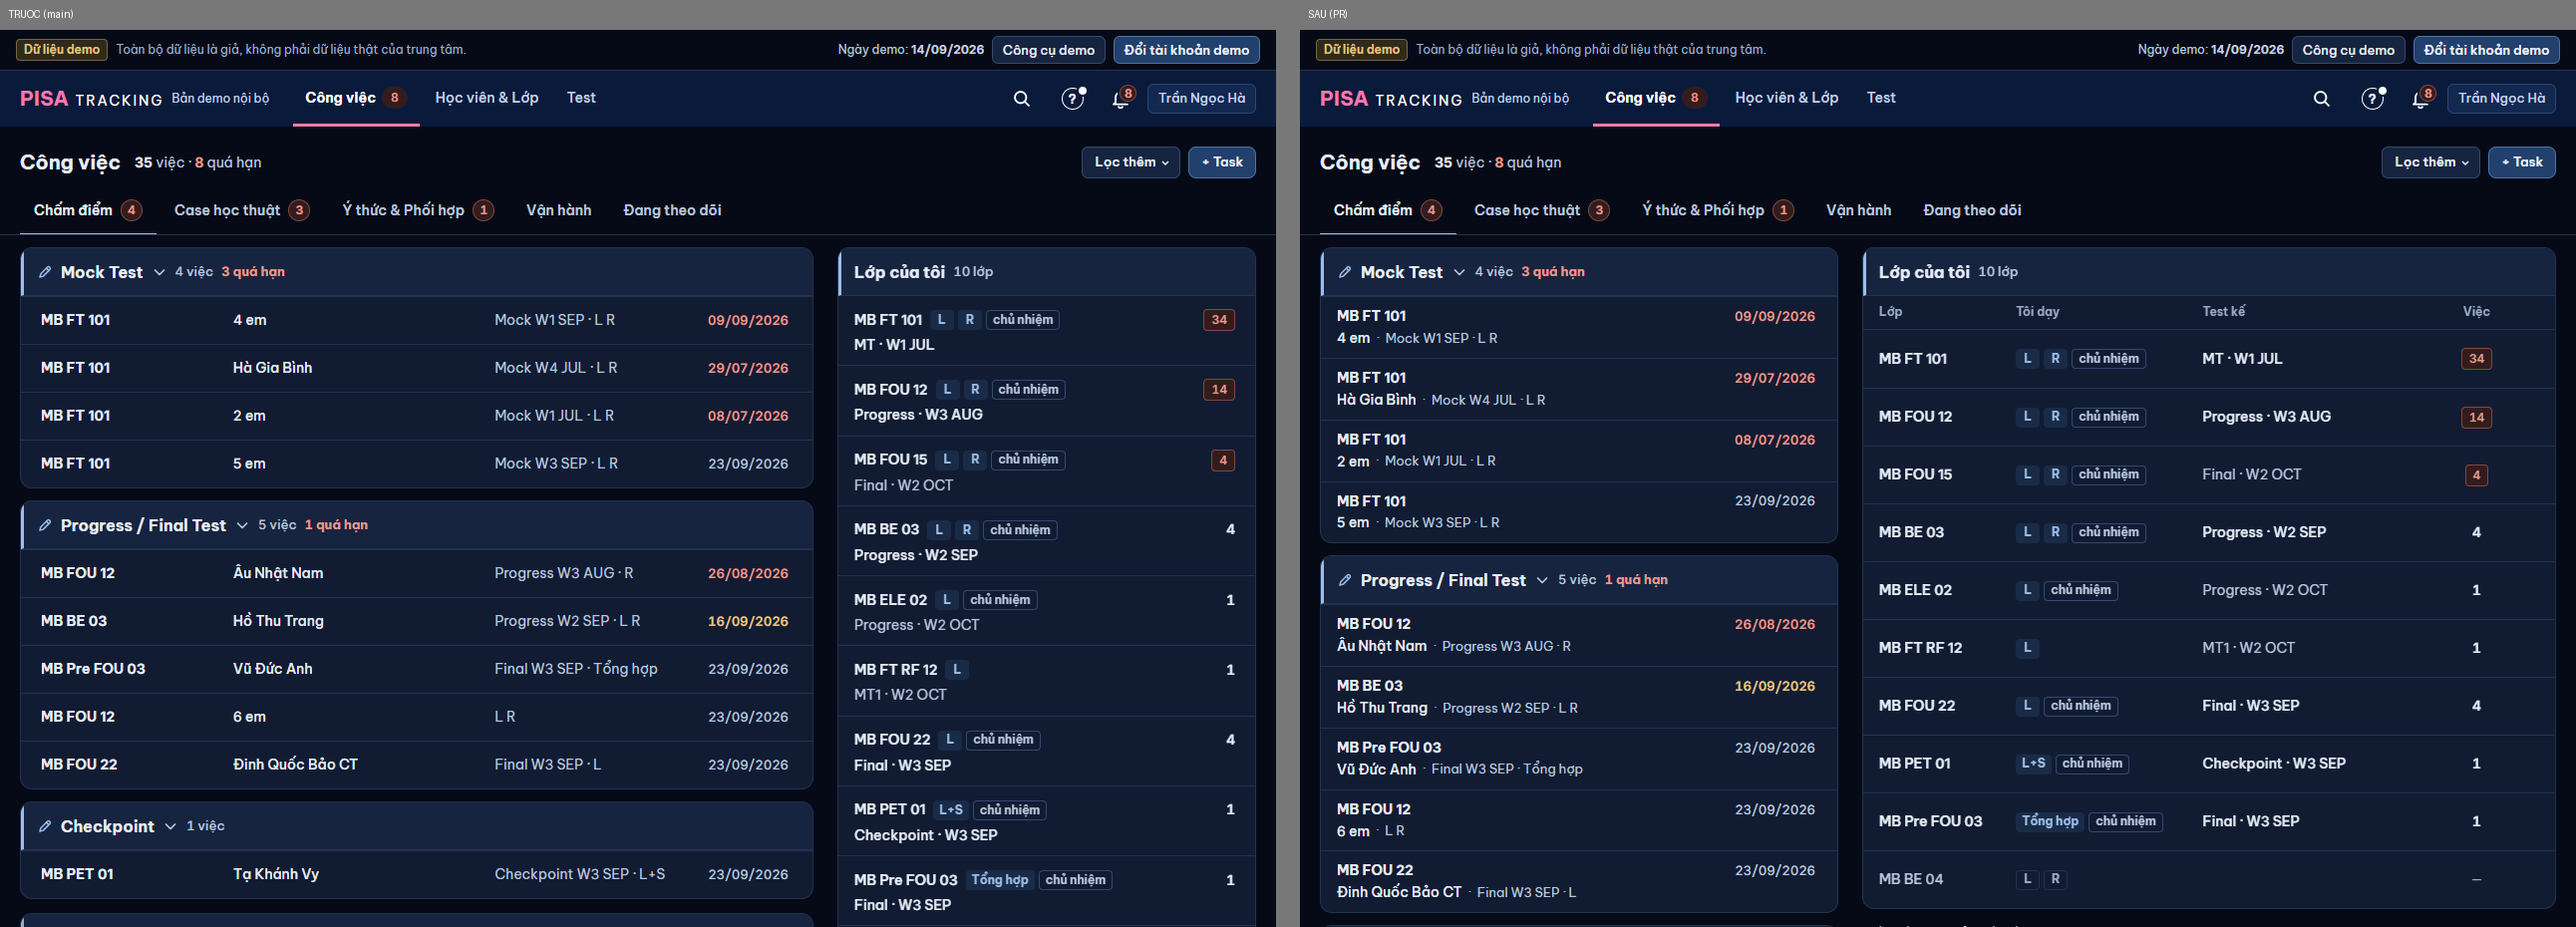
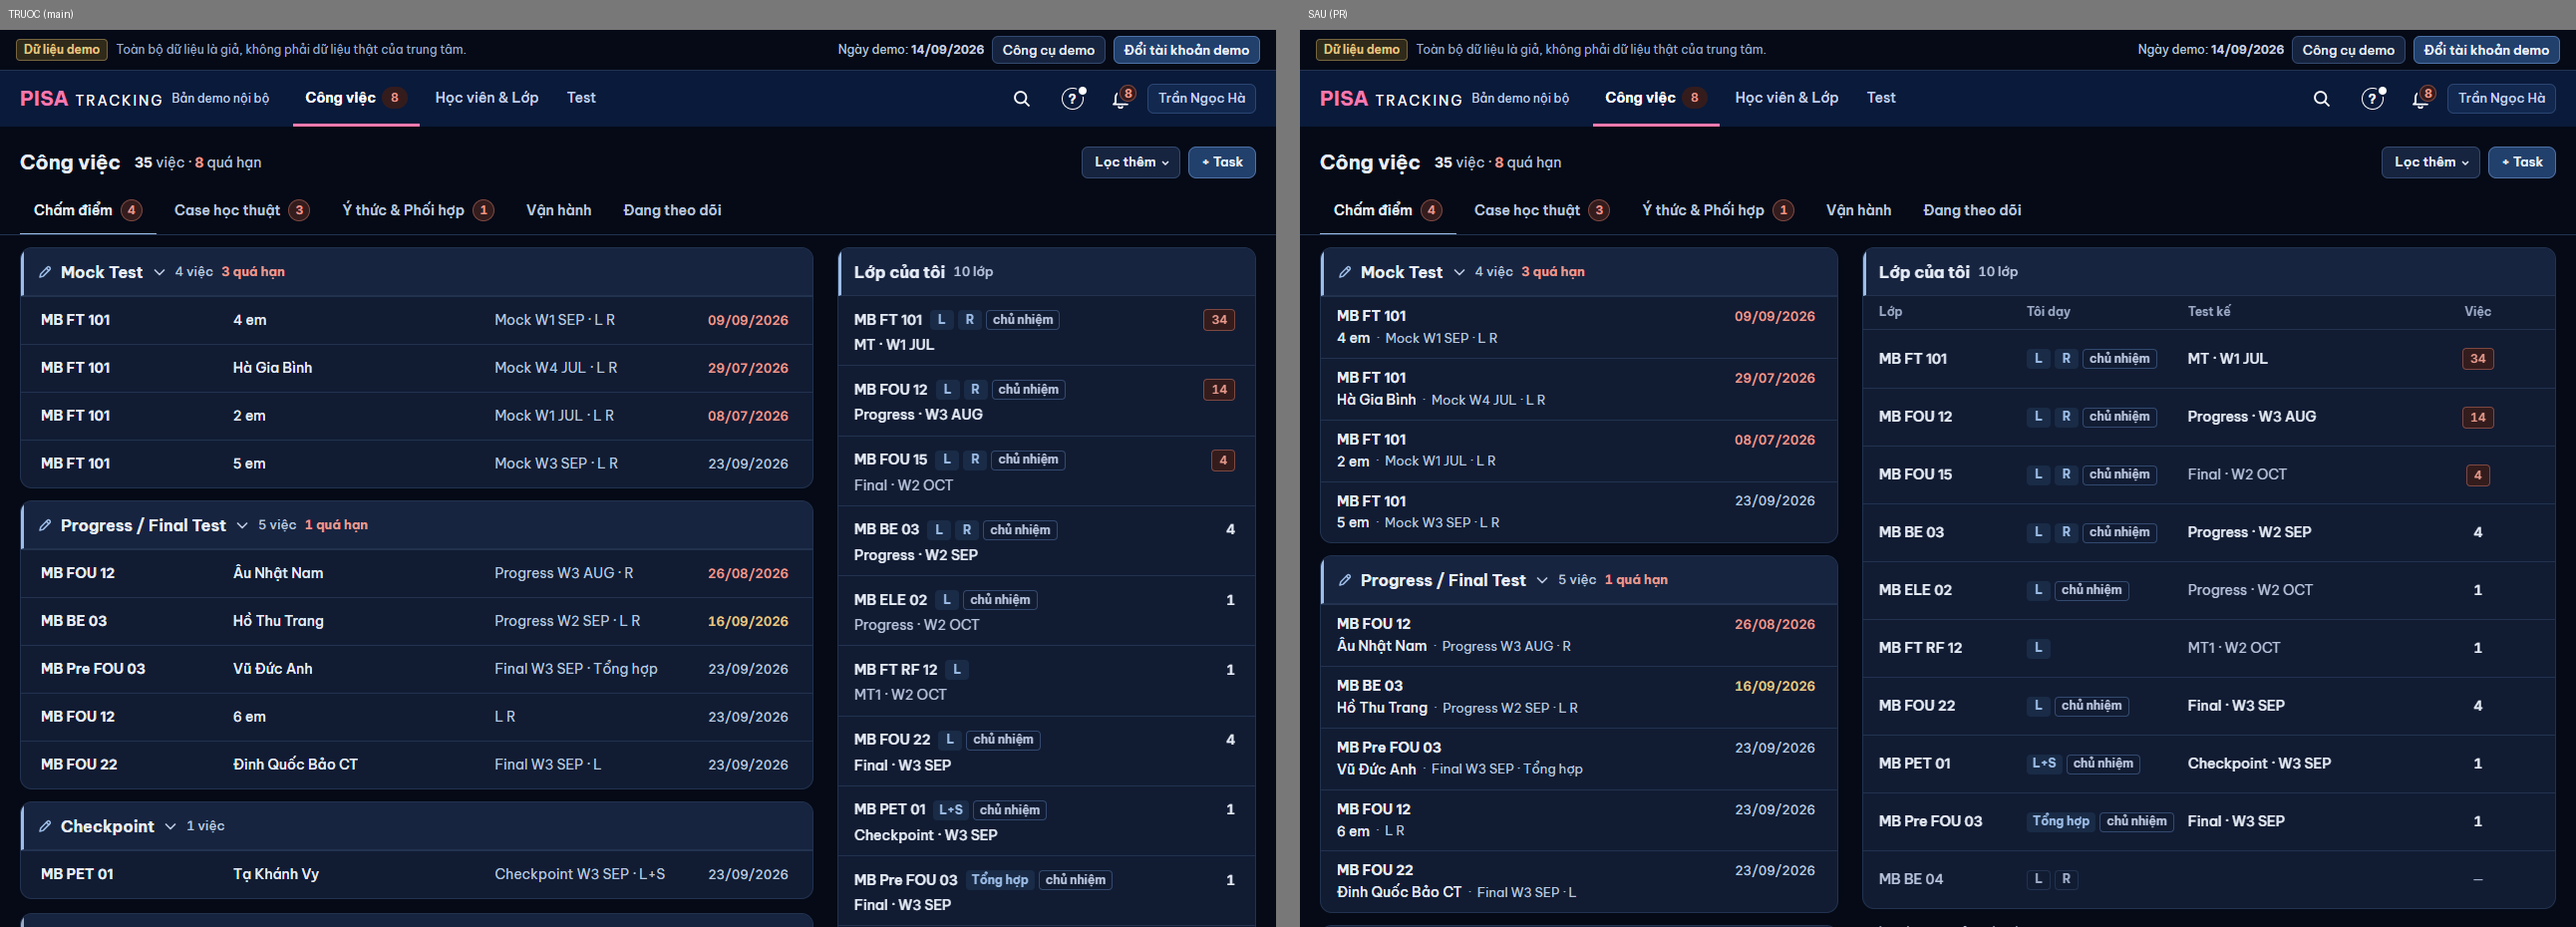
Hai cột cố định: danh sách không cắt chữ, dải tab Thêm ▾, Lớp của tôi chia lại, Phương án tách mẩu, khop-khac + ảnh panel

diff --git a/web/src/ui/HangTab.tsx b/web/src/ui/HangTab.tsx
@@ -6,7 +6,7 @@
  * Trên 375px hàng tab cuộn ngang BÊN TRONG chính nó (`overflow-x-auto`) — không đẩy cả trang cuộn ngang.
  * PR-KHUNG G5: dưới 640px mép phải mờ + đệm pr-8 (cùng mẫu bộ lọc Học viên & Lớp) — biết là còn tab để vuốt.
  */
-import { useEffect, useRef, useState, type KeyboardEvent, type ReactNode } from 'react';
+import { useEffect, useLayoutEffect, useRef, useState, type KeyboardEvent, type ReactNode } from 'react';
 import { BadgeMo, BadgeTabSo, CHIP_TRON } from './Nhan.tsx';
 import type { BadgeTab } from '@shared/domain/index.ts';
 import { t } from '@shared/i18n/index.ts';
@@ -34,14 +34,44 @@ export function phimHangTab(e: KeyboardEvent<HTMLElement>) {
 const matMep = (m: { t: boolean; p: boolean }) =>
   `linear-gradient(to right, ${m.t ? 'transparent 0, #000 2rem' : '#000 0'}, ${m.p ? '#000 calc(100% - 2rem), transparent 100%' : '#000 100%'})`;
 
-export function HangTab<K extends string>({ tabs, value, onChange, ariaLabel, panelId, className = '' }: {
+export function HangTab<K extends string>({ tabs, value, onChange, ariaLabel, panelId, className = '', thuGon = false }: {
   /** TAB-A11Y: id của vùng nội dung (`role="tabpanel"`) mà hàng tab điều khiển → `aria-controls`. Không truyền = trang chưa có vùng riêng. */
   panelId?: string;
   tabs: readonly HangTabMuc<K>[]; value: K; onChange: (k: K) => void; ariaLabel: string;
   /** Lề âm hết bề ngang khối cha (tab hạng mục Công việc, mockup `.tabs` margin 0 -24px); tab con trong khối / panel không truyền (`.tabs.trong`). */
   className?: string;
+  /** HAI-BEN (chủ SP 25/11): hàng hẹp (Công việc khi panel mở) — tab không vừa dồn vào "Thêm ▾" (cuối hàng), KHÔNG cắt chữ giữa chừng, KHÔNG cuộn. */
+  thuGon?: boolean;
 }) {
   const hang = useRef<HTMLDivElement>(null);
+  const [an, setAn] = useState<ReadonlySet<string>>(new Set());
+  const [moThem, setMoThem] = useState(false);
+  /* Menu "Thêm": Esc hoặc bấm ra ngoài thì đóng (bàn phím + chuột cùng có lối ra). */
+  useEffect(() => {
+    if (!moThem) return undefined;
+    const dong = (e: Event) => { if (e instanceof KeyboardEvent ? e.key === 'Escape' : !hang.current?.contains(e.target as Node)) setMoThem(false); };
+    document.addEventListener('keydown', dong);
+    document.addEventListener('pointerdown', dong);
+    return () => { document.removeEventListener('keydown', dong); document.removeEventListener('pointerdown', dong); };
+  }, [moThem]);
+  const khoaTab = tabs.map((x) => `${x.key}${x.so ?? ''}${x.badge?.so ?? ''}`).join('|');
+  useLayoutEffect(() => {
+    const h = hang.current;
+    if (!thuGon || !h) { setAn((a) => (a.size ? new Set() : a)); return undefined; }
+    const tinh = () => {
+      const nut = Array.from(h.querySelectorAll<HTMLElement>('[role="tab"]'));
+      const goc = h.getBoundingClientRect().left;
+      const rong = h.clientWidth;
+      const het = nut.length ? nut[nut.length - 1].getBoundingClientRect().right - goc : 0;
+      const gioiHan = het <= rong ? rong : rong - 92;   // 92 = nút "Thêm ▾"
+      const ra = new Set(nut.filter((n) => n.getBoundingClientRect().right - goc > gioiHan).map((n) => n.dataset.tab!));
+      setAn((a) => (a.size === ra.size && [...ra].every((k) => a.has(k)) ? a : ra));
+    };
+    tinh();
+    const ro = new ResizeObserver(tinh);
+    ro.observe(h);
+    return () => ro.disconnect();
+  }, [thuGon, khoaTab]);   // eslint-disable-line react-hooks/exhaustive-deps -- tinh chỉ đọc ref
   /* PTA rà #1690: hàng tab tràn (375) mờ MÉP còn tab — trái khi đã cuộn qua tab đầu, phải khi còn tab sau — để không tưởng mất tab. Đệm phải 32 px
      (chỗ cho vùng mờ phải) chỉ khi còn tab bên phải: cuộn tới cuối thì tab đầu còn ló dưới vùng mờ trái. */
   const [mep, setMep] = useState({ t: false, p: false });
@@ -75,14 +105,14 @@ export function HangTab<K extends string>({ tabs, value, onChange, ariaLabel, pa
   return (
     /* `relative`: chữ `sr-only` (absolute) của badge bám vào hàng tab, không kéo <main> trượt ngang ở 375 (RA-GD-0711). */
     <div ref={hang} role="tablist" aria-label={ariaLabel} onKeyDown={phimHangTab} onScroll={doMep}
-      className={`relative flex gap-1 overflow-x-auto overflow-y-hidden border-b max-sm:[scrollbar-width:none] ${mep.p ? 'max-sm:pr-8' : ''} ${className}`}
+      className={`relative flex gap-1 border-b max-sm:[scrollbar-width:none] ${thuGon ? 'overflow-x-clip overflow-y-visible' : 'overflow-x-auto overflow-y-hidden'} ${mep.p ? 'max-sm:pr-8' : ''} ${className}`}
       style={{ borderColor: 'var(--line)', ...(mep.t || mep.p ? { maskImage: matMep(mep), WebkitMaskImage: matMep(mep) } : {}) }}>
       {tabs.map((t, i) => {
         const active = t.key === value;
         return (
           /* GD-4c (mockup v21 H1 `.tab`): MỘT dáng — 14 / 600 mọi trạng thái, chọn = chữ chính + gạch 2 px nhấn; 1440 đệm 11 14 12, 375 đệm 12 10, cao ≥ 44. */
-          <button key={t.key} type="button" role="tab" data-tab={t.key} aria-selected={active} aria-controls={panelId} tabIndex={active || (i === 0 && !coChon) ? 0 : -1} onClick={() => onChange(t.key)}
-            className={`-mb-px inline-flex min-h-[44px] shrink-0 cursor-pointer appearance-none items-center gap-2 whitespace-nowrap border-0 border-b-2 border-solid bg-transparent px-2.5 py-3 text-sm font-semibold sm:px-3.5 sm:pb-3 sm:pt-[11px] ${
+          <button key={t.key} type="button" role="tab" data-tab={t.key} aria-selected={active} aria-controls={panelId} tabIndex={active || (i === 0 && !coChon) ? 0 : -1} aria-hidden={an.has(t.key) || undefined} onClick={() => onChange(t.key)}
+            className={`-mb-px inline-flex min-h-[44px] shrink-0 cursor-pointer appearance-none items-center gap-2 whitespace-nowrap border-0 border-b-2 border-solid bg-transparent px-2.5 py-3 text-sm font-semibold sm:px-3.5 sm:pb-3 sm:pt-[11px] ${an.has(t.key) ? 'invisible pointer-events-none ' : ''}${
               active ? 'border-[color:var(--accent)] text-[color:var(--text)]' : 'border-transparent text-dim hover:text-[color:var(--text)]'}`}>
             {/* A3-18: nhãn đủ vẫn là tên truy cập (sr-only ở 375), chỉ nhãn ngắn hiện. */}
             {t.ngan ? <><span aria-hidden className="sm:hidden">{t.ngan}</span><span className="max-sm:sr-only">{t.label}</span></> : t.label}
@@ -97,6 +127,26 @@ export function HangTab<K extends string>({ tabs, value, onChange, ariaLabel, pa
           </button>
         );
       })}
+      {thuGon && an.size > 0 && (
+        <span className="absolute inset-y-0 right-0 flex items-stretch" style={{ background: 'var(--bg)' }}>
+          <button type="button" aria-haspopup="menu" aria-expanded={moThem} onClick={() => setMoThem(!moThem)}
+            className={`-mb-px inline-flex min-h-[44px] cursor-pointer appearance-none items-center gap-1.5 whitespace-nowrap border-0 border-b-2 border-solid bg-transparent px-3.5 text-sm font-semibold ${an.has(value) ? 'border-[color:var(--accent)] text-[color:var(--text)]' : 'border-transparent text-dim hover:text-[color:var(--text)]'}`}>
+            {t('Thêm')} <span aria-hidden>▾</span>
+          </button>
+          {moThem && (
+            <ul role="menu" className="absolute right-0 top-full z-30 m-0 mt-1 grid min-w-[200px] list-none gap-0.5 rounded-lg border p-1 shadow-lg" style={{ background: 'var(--surface)', borderColor: 'var(--line-strong)' }}>
+              {tabs.filter((x) => an.has(x.key)).map((x) => (
+                <li key={x.key} role="none">
+                  <button type="button" role="menuitem" onClick={() => { setMoThem(false); onChange(x.key); }}
+                    className={`flex min-h-[40px] w-full cursor-pointer appearance-none items-center gap-2 rounded-md border-0 bg-transparent px-3 text-left text-sm font-semibold hover:bg-[color:var(--accent-soft)] ${x.key === value ? 'text-[color:var(--text)]' : 'text-dim'}`}>
+                    {x.label}{x.badge && <BadgeTabSo b={x.badge} />}{!!x.so && x.so > 0 && <BadgeMo so={x.so} />}
+                  </button>
+                </li>
+              ))}
+            </ul>
+          )}
+        </span>
+      )}
     </div>
   );
 }

diff --git a/web/src/modules/yThuc/CaseSosControls.tsx b/web/src/modules/yThuc/CaseSosControls.tsx
@@ -182,7 +182,12 @@ export function XacNhanCasePanel({ data, onXong, tiep, ...chung }: ChungPanel & 
               <span className="mb-1 block text-[13px] font-semibold text-slate-300">{t('Phương án')}</span>
               {!sua ? (
                 <p className="m-0 flex flex-wrap items-baseline gap-x-2 text-sm text-slate-200">
-                  <span>{pa.mocChu ? pa.description.replace(/ · đến Cuối khoá(?= · |$)/, '') : pa.description}{pa.performer ? ` · ${pa.performer}` : ''}{pa.mocChu ? ` · ${dich(pa.mocChu)}` : ''}</span>
+                  {/* HAI-BEN (chủ SP 25/11): mô tả PA tách theo " · " thành các mẩu có viền — mỗi ý một mẩu, xuống dòng gọn (≤ 72 ký tự), không một dòng chữ dài chi chít. */}
+                  <span className="flex max-w-[72ch] flex-wrap gap-1.5">
+                    {`${pa.mocChu ? pa.description.replace(/ · đến Cuối khoá(?= · |$)/, '') : pa.description}${pa.performer ? ` · ${pa.performer}` : ''}${pa.mocChu ? ` · ${dich(pa.mocChu)}` : ''}`.split(' · ').filter(Boolean).map((m, i) => (
+                      <span key={i} className="rounded-md border px-2 py-0.5 text-[13px]" style={{ borderColor: 'var(--line-strong)' }}>{m}</span>
+                    ))}
+                  </span>
                   {/* Rà #389: chỉ người sửa được PA (`ghiDuoc` = luật Sửa PA) — FOU PA chung do GVCN dạy, GVBM không sửa (không để cả lần xác nhận bị từ chối). */}
                   {pa.ghiDuoc && <button type="button" className="link min-h-[44px] appearance-none border-0 bg-transparent p-0 text-[13px] font-semibold sm:min-h-0" onClick={() => setSua(true)}>{t('Sửa')}</button>}
                 </p>

diff --git a/web/src/index.css b/web/src/index.css
@@ -2094,8 +2094,12 @@ article.hang-nhom-lop { background: var(--hang-lon-bg); box-shadow: inset 3px 0 
   .cvA-con .cvA-lop { visibility: hidden; }
   .cvA-v.dang-chon { background-image: linear-gradient(var(--accent-soft), var(--accent-soft)); box-shadow: inset 3px 0 0 var(--accent-strong); }
   /* Trang rộng hết khung (≥ 1100 px, vai không có khối phải): ô lớp / ai thu theo nội dung, ô chi tiết ăn phần dư — không để cột "ai" trống hàng trăm px (chủ SP 24/11). */
-  @container (min-width: 1100px) {
+  /* HAI-BEN (chủ SP 25/11): danh sách cạnh ô phải cố định (600–1099 px, 1440 → 656): lớp / ai thu theo nội dung, chi tiết ăn phần dư và XUỐNG DÒNG (không "…" cắt chữ) — dòng cao thêm một tầng thay vì mất chữ. */
+  @container (min-width: 600px) {
     .cvA { grid-template-columns: max-content max-content minmax(0, 1fr) max-content; }
+  }
+  @container (min-width: 600px) and (max-width: 1099px) {
+    .cvA-v .cvA-ct { white-space: normal; overflow: visible; text-overflow: clip; overflow-wrap: anywhere; line-height: 1.3; padding-block: 6px; }
   }
   @container (max-width: 599px) {
     .cvA { grid-template-columns: minmax(0, 1fr); column-gap: 0; }

diff --git a/web/src/modules/congViec/HoTroHocVienTab.tsx b/web/src/modules/congViec/HoTroHocVienTab.tsx
@@ -709,7 +709,7 @@ export function HoTroHocVienTab() {
             ))}
           </div>
         )}
-        {data && !data.scopeEmpty && tabs.length > 0 && <div className={xemLopHep ? 'max-lg:hidden' : undefined}><HangTab ariaLabel={t('Hạng mục việc')} className="-mx-4 px-4 md:-mx-5 md:px-5" tabs={tabs.map((x) => ({ key: x.key, label: x.nhan, badge: x.badge }))} value={tab ?? ''} panelId="cv-tab-than" onChange={(k) => {
+        {data && !data.scopeEmpty && tabs.length > 0 && <div className={xemLopHep ? 'max-lg:hidden' : undefined}><HangTab ariaLabel={t('Hạng mục việc')} thuGon={coPanel} className="-mx-4 px-4 md:-mx-5 md:px-5" tabs={tabs.map((x) => ({ key: x.key, label: x.nhan, badge: x.badge }))} value={tab ?? ''} panelId="cv-tab-than" onChange={(k) => {
           const next = new URLSearchParams(params); next.set('nhom', k); next.delete('loai'); next.delete('the'); setParams(next, { replace: true });
         }} /></div>}
         {tab === 'duyet' && <div ref={setKhuLocDuyet} />}

diff --git a/web/src/modules/congViec/LopCuaToi.tsx b/web/src/modules/congViec/LopCuaToi.tsx
@@ -111,7 +111,7 @@ export function NutChipViec({ c, ngu, onBam }: { c: ChipViec; ngu?: string; onBa
 }
 
 /* NHẸ HƠN PR-2a (v23 ② G1): Lớp · Tôi dạy · Test kế · Việc (MỘT số) — bốn cột. HAI-BEN (NH9, chủ SP 25/11): ô phải cố định 720 → cột chia hết bề ngang theo phần (không dồn về trái), số Việc căn giữa cột cuối. */
-const COT = 'grid grid-cols-[minmax(0,1fr)_minmax(0,1.4fr)_minmax(0,1.6fr)_minmax(56px,1fr)] items-center gap-x-3 px-4';
+const COT = 'grid grid-cols-[minmax(0,1fr)_minmax(0,1.1fr)_minmax(0,1.6fr)_minmax(56px,0.9fr)] items-center gap-x-3 px-4';
 /* C1 (rà 19/11): bốn cột cố định cần ≥ 640 px. Khung hẹp hơn (Công việc 1100: khung phải ~520 px; 375) → mỗi lớp một thẻ dọc — đo theo
    bề ngang KHUNG (container query `[container-type:inline-size]` ở <section>), không theo cửa sổ, nên chip không bao giờ tràn / bị cắt sang cột bên. */
 

diff --git a/docs/anh/hai-ben-cong-viec/khop-khac.md b/docs/anh/hai-ben-cong-viec/khop-khac.md
@@ -1,0 +1,40 @@
+# Hai cột cố định · Công việc — khop-khac (PR #2094)
+
+Khung: danh sách | ô phải cố định (1440: 656 | 720 · 1280: 520 | 696), đóng và mở panel bằng nhau. Quét bằng Playwright, mở TỪNG việc ở mọi hạng mục, vai GV (7, 8, 9, 10, 12) · TVV (27, 28) · QL (2, 3) · CX (24) · Head tutor (25) · Quản trị (1, không có việc). Ảnh: thư mục này + `panel/`.
+
+## Sửa trong PR (tóm tắt TRƯỚC → SAU)
+| Chỗ | TRƯỚC | SAU |
+|---|---|---|
+| Danh sách 656 / 520 | chữ chi tiết cắt "…" (Final W3 SEP · Tổng h…, Checkpoint…, tên người) | cột lớp / ai thu theo nội dung, chi tiết ăn phần dư và XUỐNG DÒNG (không "…") ở 600–1099 px; < 600 vẫn hai tầng |
+| Dải hạng mục khi mở panel | cắt "Đang the…", cuộn mờ mép | tab không vừa dồn vào "Thêm ▾" (mở bằng bấm, Esc / bấm ngoài đóng); không cuộn, không cắt giữa chữ |
+| Lớp của tôi (720) | 4 cột cố định 104 / 164 / 1fr / 56 → "Tôi dạy" thừa chỗ | 1 · 1,1 · 1,6 · 0,9 theo phần; số Việc căn giữa cột cuối |
+| Bàn giao | "Case đang mở" một đoạn nối " · " chi chít; danh sách em 280 | mỗi Case một dòng (+ người nhận gợi ý mờ); danh sách em 236; nhãn 6,25 rem |
+| Ô nhập nhiều chữ trong panel | 3 dòng cố định, 300 ký tự bị cắt | tự dãn 4,5–14 rem, rồi cuộn; ~62 ký tự/dòng ở 1280, ~75 ở 1440 |
+| Xác nhận Case › Phương án | một dòng chữ dài "Bổ trợ 2 buổi/tuần · chung các môn trượt · …" | tách " · " thành mẩu có viền, xuống dòng ≤ 72 ký tự, "Sửa" cạnh |
+| Hồ sơ lớp 375 · Task nổi | che chip / tab | ẩn khi chạm tablist / chip (đã ở vòng trước) |
+
+## Bảng panel → đạt / đã sửa (1440 trừ khi ghi khác)
+| Panel | Kết quả | Ghi chú / ảnh |
+|---|---|---|
+| Nhập điểm (một / nhiều kỹ năng, Tổng hợp, theo tuần, L+S) | ĐẠT | lưới chia đều trong 720, "Mở lưới đầy đủ ›" + "Cả lớp" đúng chỗ; `tong-1…`, `tong-5…` |
+| Chấm Speaking | ĐẠT | chọn GV chấm, bảng 3 cột; `tong-4…` |
+| Điểm / Nhập điểm chỉ xem (Pronunciation, Reading) | ĐẠT | `tong-4…`, `tong-5…` |
+| Case · Mô tả Case (nguyên nhân, mô tả) | ĐÃ SỬA | ô Mô tả tự dãn; chữ dài 1440 / 1280 / 375: `sau-chu-dai-*` |
+| Case · Xác nhận Case | ĐÃ SỬA | Phương án tách mẩu; `xac-nhan-case-pa-tach-mau-1440 / 1280 / 375` |
+| Case · Thêm PA | ĐẠT | form Loại PA / Nội dung / Số buổi / Bắt đầu, nhãn rõ; `tong-1…` |
+| Case · Xác nhận PA, PA đang chạy, Ghi kết quả PA / Ghi Mini Test | ĐẠT (soi qua danh sách việc + panel Case) | không có panel riêng ở demo với dữ liệu "Ghi kết quả PA" mở được cho vai quét — **chưa chụp riêng** |
+| Case Speaking / Pronunciation (tuyến S chéo, Tutor / Bổ trợ) | ĐẠT | `tong-4…`, `tong-5…` (PA Bổ trợ: người dạy, Số buổi) |
+| Case bị từ chối / trả lại | CHƯA CHỤP | demo không có Case ở trạng thái này |
+| Xét lại lộ trình | ĐẠT | thẻ từng em, 3 nút đều; `tong-2…` |
+| Bàn giao (GVCN · GVBM · Pronunciation) | ĐÃ SỬA | `sau-ban-giao-1440 / 1280`, `tong-2…`, `tong-4…` |
+| Meeting (CX/GĐCN, GVCN meeting, Trao đổi gia đình) | ĐẠT | 3 cột Học viên · Cần làm · ⋯; `tong-2…`, `tong-3…` |
+| Báo PH (kết quả Test / REPORT) | ĐẠT | `tong-2…`, `tong-3…` |
+| Bổ sung hồ sơ (Sửa thông tin) | ĐẠT | `tong-3…` |
+| Việc quản lý: việc tay / được giao · Phụ trách · Hạn · Theo dõi · Việc con · Tệp · Lịch sử | ĐẠT | `tong-3…`, `tong-5…` |
+| Cập nhật tiến độ (Tạm ngưng / Dừng hẳn / Hoàn thành) | ĐẠT | lý do, cần ai hỗ trợ, ngày xem lại, cập nhật; `cap-nhat-tien-do-tam-ngung-dung-han-1440` |
+| Hoàn thành + Hoàn tác | CHƯA CHỤP | thao tác ghi dữ liệu — không bấm trên demo chung |
+| Ý thức · Xác nhận xử lý + cấp bậc (vi phạm đưa vào, cách xử lý 4 thẻ, ngày, người, mô tả) | ĐẠT | `tong-2…` |
+| Ý thức · Phối hợp (Meeting / sos_coordination) | ĐẠT | cùng panel Meeting |
+| Ý thức · Ghi vi phạm / nhắc nhở, Trả lại vi phạm (3 lựa chọn TVV), Khai cấp bậc lô N70 | CHƯA CHỤP | không có việc mở được trong demo cho các vai quét (nút + Task › Ghi vi phạm không mở được bằng script). Cần dữ liệu giả lập — xin PTA chỉ vai / lớp có việc này |
+
+Phát hiện khác (không sửa, không phải lỗi bố cục): chữ "…" ở nút "Không cần theo dõi…", "Thao tác khác", "(bắt buộc)" là chủ ý / chữ cho trình đọc màn.
